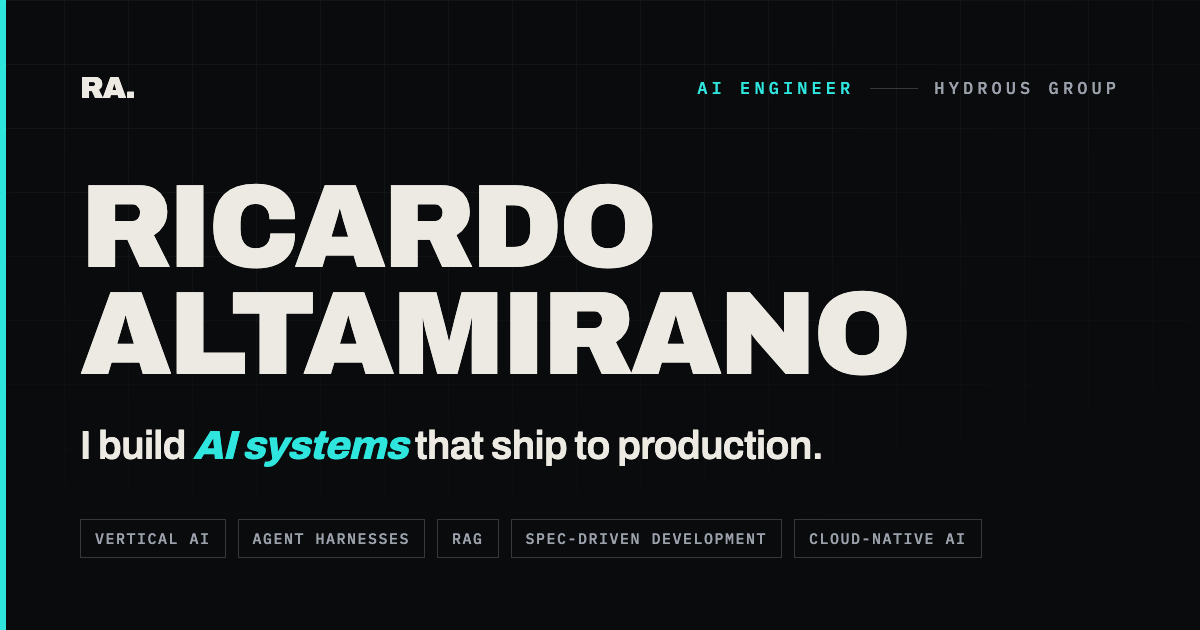
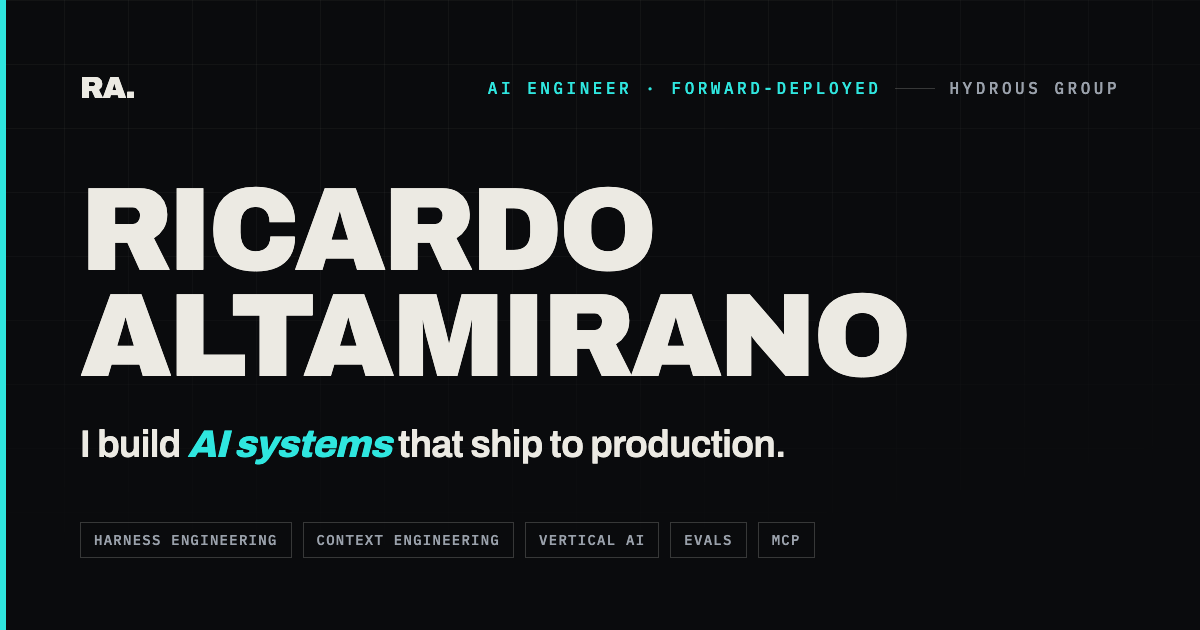
feat: reframe with 2026 vocabulary (harness/context engineering, evals, FDE positioning)

diff --git a/src/data/content.ts b/src/data/content.ts
@@ -8,13 +8,13 @@ export const site = {
   initials: "RA.",
   role: "AI Engineer",
   // Shown under the name in the nav / meta
-  subtitle: "Production AI Agents · Vertical Systems · Cloud Infrastructure",
+  subtitle: "Forward-Deployed · Production Agents · Vertical AI Systems",
   location: "Los Mochis, Sinaloa, Mexico",
   currentCompany: "Hydrous Group",
   // Used for <title>, meta description and Open Graph
   seoTitle: "Ricardo Altamirano — AI Engineer",
   seoDescription:
-    "AI Engineer building production AI agents and the deterministic operating systems they need to run inside real, regulated domain workflows.",
+    "AI Engineer & Forward-Deployed Engineer building production agents and the harnesses they run on — context engineering, evals, guardrails, and vertical AI inside real regulated workflows.",
   // Set this to your deployed URL when you have a domain (used for OG / canonical)
   url: "https://ricardo-altamirano.vercel.app",
 } as const;
@@ -26,13 +26,13 @@ export const hero = {
   headline: "I build AI systems that ship to production.",
   accent: "AI systems",
   lede:
-    "Production agents, governed workflows, and the deterministic operating cores they need to run on — shipped with Spec-Driven Development discipline.",
+    "Production agents and the harnesses they run on — context engineering, evals, guardrails, and the deterministic operating cores agents need. Shipped with Spec-Driven Development discipline.",
   // Status line — modeled after Julián's "currently working on" pattern + LinkedIn open-to-work.
   status: {
-    label: "Open to AI Engineering roles",
+    label: "Open to AI Engineer & Forward-Deployed roles",
     currently: "Building vertical AI at Hydrous Group",
   },
-  tags: ["Vertical AI", "Agent Harnesses", "RAG", "Tool Calling", "Multimodal", "MCP"],
+  tags: ["Harness Engineering", "Context Engineering", "Vertical AI", "Agentic RAG", "Evals", "MCP"],
   ctas: [
     { label: "View Work", href: "#work", primary: true },
     { label: "Get in Touch", href: "#contact", primary: false },
@@ -44,31 +44,31 @@ export const hero = {
 // Scrolling keyword strip under the hero.
 // Mix of themes (positioning) + tools (ATS keywords).
 export const marquee = [
+  "Harness Engineering",
+  "Context Engineering",
   "Vertical AI",
   "Production Agents",
+  "Eval-Driven Development",
   "Spec-Driven Development",
-  "Agentic Coding",
-  "Agent Harnesses",
-  "RAG",
+  "Agentic RAG",
+  "Subagent Orchestration",
   "Tool Calling",
-  "Multimodal",
+  "Guardrails",
   "MCP",
-  "Governed Workflows",
-  "Structured Outputs",
-  "Cloud-Native AI",
+  "A2A Protocol",
 ] as const;
 
 export const about = {
   intro: [
-    "I'm an AI Engineer building production AI for real domain workflows — agent harnesses, tool-calling pipelines, retrieval-augmented generation, structured outputs, multimodal analysis, and cloud-deployed applications. Built for environments where being wrong has consequences.",
-    "Currently AI Engineer at Hydrous Group, building vertical AI platforms that pair governed agents with deterministic operating cores. I work with Spec-Driven Development and agentic coding discipline.",
+    "I'm an AI Engineer — and in practice, a forward-deployed one. I embed in a domain and build production AI until the system actually works: agent harnesses, context engineering, eval pipelines, guardrails, retrieval, and multimodal analysis. Built for environments where being wrong has consequences.",
+    "Currently at Hydrous Group, building vertical AI platforms that pair governed agents with deterministic operating cores — sandboxed tool execution, observability, and evals in the loop. I work with Spec-Driven Development and agentic coding discipline.",
   ],
   // Short conviction statements — the "what I believe" block.
   // The first belief is the personal thesis, lifted from my own product writing.
   beliefs: [
     "Don't build the agent. Build the operating system the agent must use.",
-    "Most AI in production is a demo with a deploy button. I build the harness around it.",
-    "Agents need guardrails, not vibes — governed workflows, deterministic calculations, structured outputs.",
+    "An agent is a model plus a harness. The model is the easy part — I build the harness: context, tools, evals, guardrails.",
+    "Agents need guardrails, not vibes — least-privilege tools, governed workflows, and humans who approve canonical truth.",
   ],
 } as const;
 
@@ -89,8 +89,8 @@ export const projects: Project[] = [
     index: "01",
     title: "Vertical AI platform for regulated operations",
     blurb:
-      "Field teams ran regulated workflows out of spreadsheets and email threads. I built a production AI platform where agents operate on top of a deterministic vertical core: humans approve canonical truth; agents handle retrieval, tool execution, and structured drafts inside real business processes.",
-    tags: ["Vertical AI", "Production Agents", "RAG", "Tool Calling", "FastAPI", "Python"],
+      "Field teams ran regulated workflows out of spreadsheets and email threads. I built a production AI platform where agents operate on top of a deterministic vertical core: humans approve canonical truth; agents handle retrieval, tool execution, and structured drafts inside real business processes. Guardrailed with least-privilege tools, sandboxed execution, and evals in the loop.",
+    tags: ["Vertical AI", "Production Agents", "Subagent Orchestration", "Guardrails", "Evals", "FastAPI"],
     status: "Hydrous Group · In production",
   },
   {
@@ -156,9 +156,9 @@ export const openSource: OpenSourceItem[] = [
     name: "gentle-pi",
     href: "https://github.com/ricardoalt1515/gentle-pi",
     blurb:
-      "Practitioner of gentle-pi from the Gentle-AI ecosystem by Gentleman Programming — a development harness for the Pi coding agent: Spec-Driven Development, subagent orchestration, strict TDD evidence, and reviewer-aware work units.",
+      "Harness engineering in practice. I run gentle-pi from the Gentle-AI ecosystem by Gentleman Programming — a harness for the Pi coding agent: Spec-Driven Development, subagent orchestration, strict TDD evidence, and reviewer-aware work units. The discipline I bring to the agents I build.",
     status: "Practitioner",
-    tags: ["SDD", "Agentic Coding", "TDD Harness", "Subagents"],
+    tags: ["Harness Engineering", "SDD", "Agentic Coding", "Subagents"],
   },
 ];
 
@@ -191,19 +191,23 @@ export const stack: { group: string; items: string[] }[] = [
   {
     group: "AI Systems",
     items: [
-      "AI Agents",
       "Agent Harnesses",
+      "Harness Engineering",
+      "Context Engineering",
       "Tool Calling",
       "RAG",
+      "Agentic RAG",
       "Structured Outputs",
       "Multimodal",
-      "Multi-Agent",
+      "Subagent Orchestration",
+      "Guardrails (OWASP LLM)",
       "LangChain",
       "LangGraph",
       "AI SDK ToolLoopAgent",
       "Amazon Bedrock",
-      "Vector DBs",
       "MCP",
+      "A2A Protocol",
+      "Vector DBs",
     ],
   },
   { group: "Web & APIs", items: ["FastAPI", "Next.js", "React", "REST APIs", "WebSockets"] },
@@ -225,15 +229,32 @@ export const stack: { group: string; items: string[] }[] = [
     ],
   },
   {
+    group: "Agent Infra & Evals",
+    items: [
+      "E2B / Firecracker Sandboxes",
+      "Least-Privilege Tools",
+      "LangSmith",
+      "Phoenix / Arize",
+      "Eval Pipelines (CI-gated)",
+      "Cost & Latency Observability",
+    ],
+  },
+  {
     group: "Practice",
-    items: ["Spec-Driven Development", "Agentic Coding", "TDD", "Code Review Discipline"],
+    items: [
+      "Spec-Driven Development",
+      "Eval-Driven Development",
+      "Agentic Coding",
+      "TDD",
+      "Code Review Discipline",
+    ],
   },
 ];
 
 export const contact = {
   headline: "Let's build something.",
   lede:
-    "I'm interested in AI engineering roles — production agents, vertical AI systems, harnesses, and the cloud infrastructure to run them. If that's your problem, I'd like to hear about it.",
+    "I'm interested in AI Engineer and Forward-Deployed roles — production agents, harnesses, evals, and vertical AI inside real regulated domains. If that's your problem, I'd like to hear about it.",
   email: "ricardoaltamirano1515@gmail.com",
   links: [
     { label: "Email", href: "mailto:ricardoaltamirano1515@gmail.com" },
